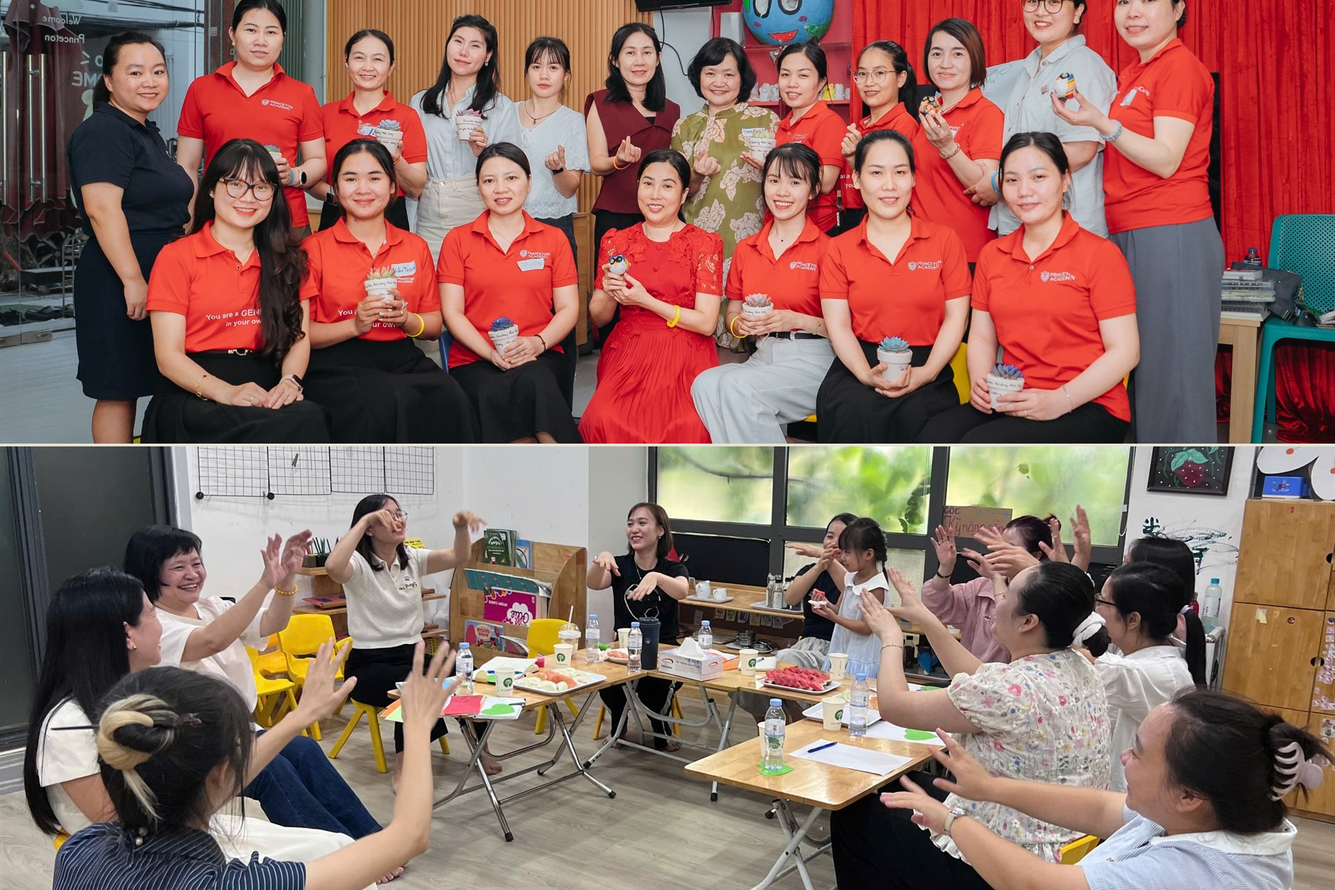
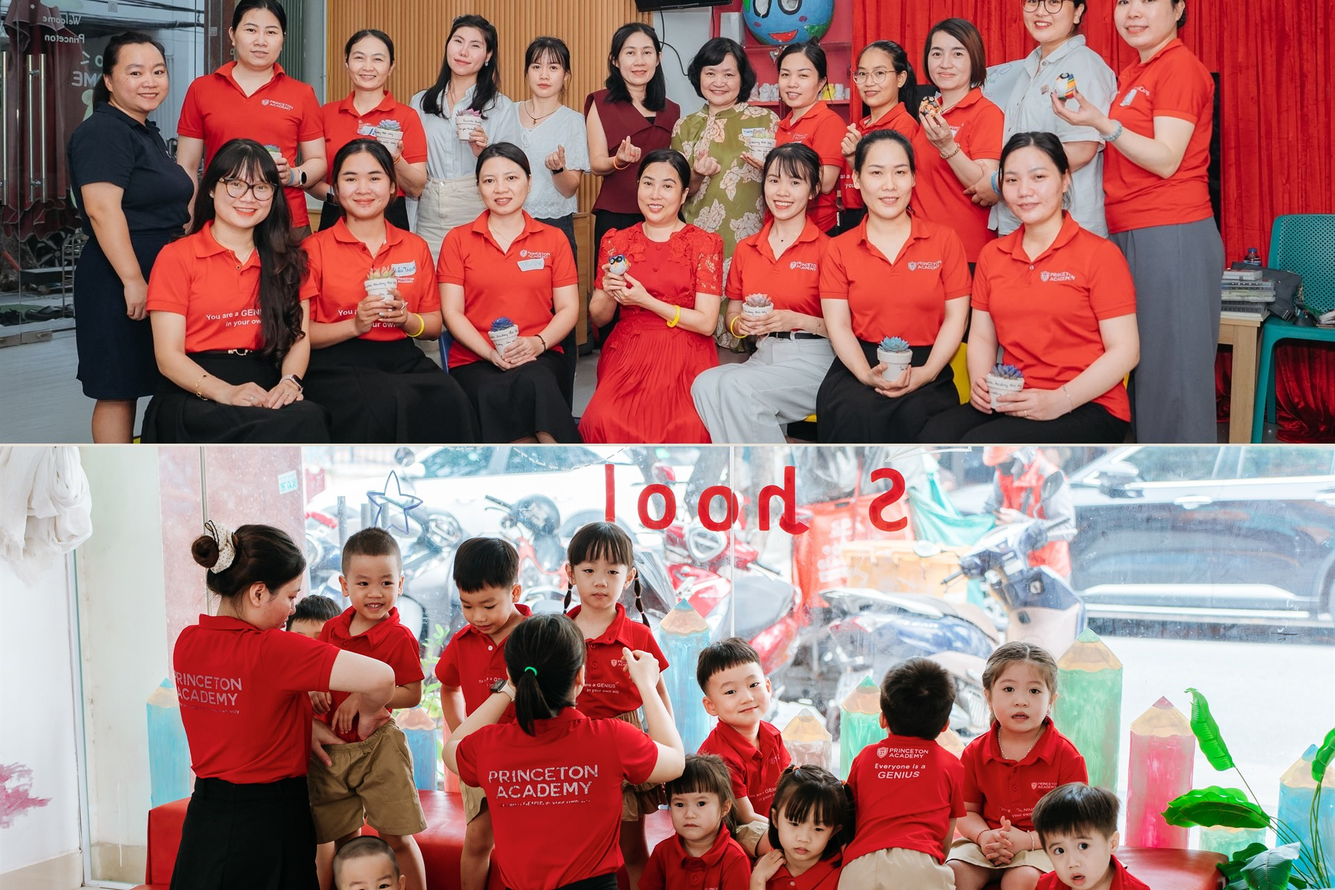
fix giao diện

diff --git a/index.html b/index.html
@@ -715,19 +715,19 @@
                 </div>
                 <div class="model-row">
                   <dt>Mặt bằng</dt>
-                  <dd>Trên 1.000 m² (sân vườn rộng)</dd>
+                  <dd>Từ 300m²/sàn, tổng diện tích 700 - 1.000m²</dd>
                 </div>
                 <div class="model-row">
                   <dt>Sức chứa</dt>
-                  <dd>150 - 300 học sinh</dd>
+                  <dd>70 - 200 học sinh</dd>
                 </div>
               </dl>
 
               <div class="mt-4 p-3 bg-[#FCFAF7] border-l-2 border-[#C89D35] text-[11px] text-gray-700 leading-relaxed">
-                <strong class="text-[#8C1823]">Điểm nổi bật:</strong> Tiêu chuẩn Flagship quốc tế.
+                <strong class="text-[#8C1823]">Điểm nổi bật:</strong> Tiêu chuẩn Flagship quốc tế. Tạo sự khác biệt lớn về chương trình, không gian và thương hiệu.
               </div>
 
-              <a href="#register" data-model="Princeton Premier" class="model-cta mt-5 block text-center px-4 py-3 border border-[#8C1823] text-[#8C1823] hover:bg-[#8C1823] hover:text-white text-[10px] font-extrabold uppercase tracking-wider transition-colors">
+              <a href="#register" data-model="Princeton Premier" class="model-cta mt-auto pt-5 block text-center px-4 py-3 border border-[#8C1823] text-[#8C1823] hover:bg-[#8C1823] hover:text-white text-[10px] font-extrabold uppercase tracking-wider transition-colors">
                 Tư vấn mô hình Premier
               </a>
             </div>
@@ -735,14 +735,14 @@
 
           <!-- Academy -->
           <article class="model-card model-card--featured lg:mt-0">
-            <span class="model-ribbon">Tối ưu vận hành</span>
+            <span class="model-ribbon">Tối ưu vốn</span>
             <div class="bg-[#8C1823] text-white p-6 border-b-2 border-[#C89D35]">
               <div class="flex items-center justify-between gap-3">
                 <span class="text-[9px] font-bold uppercase tracking-[0.16em] text-amber-200">Mô hình 02</span>
                 <span class="text-[9px] font-bold uppercase tracking-[0.14em] text-amber-200/80">Tiêu chuẩn</span>
               </div>
               <h3 class="mt-2 text-xl font-extrabold uppercase tracking-wide">Princeton Academy</h3>
-              <p class="mt-1 text-[11px] text-gray-200">Mô hình tiêu chuẩn tối ưu vận hành</p>
+              <p class="mt-1 text-[11px] text-gray-200">Mô hình tiêu chuẩn tối ưu vốn</p>
             </div>
             <div class="p-6 flex flex-col flex-1">
               <div class="pb-4">
@@ -757,7 +757,7 @@
               <dl class="border-t border-gray-100 pt-1">
                 <div class="model-row">
                   <dt>Đối tượng</dt>
-                  <dd>Trung tâm tỉnh / thành phố</dd>
+                  <dd>Trung tâm Tỉnh / Thành phố</dd>
                 </div>
                 <div class="model-row">
                   <dt>Mặt bằng</dt>
@@ -765,15 +765,15 @@
                 </div>
                 <div class="model-row">
                   <dt>Sức chứa</dt>
-                  <dd>80 - 150 học sinh</dd>
+                  <dd>70 - 150 học sinh</dd>
                 </div>
               </dl>
 
               <div class="mt-4 p-3 bg-[#FFF9EC] border-l-2 border-[#C89D35] text-[11px] text-gray-700 leading-relaxed">
-                <strong class="text-[#8C1823]">Điểm nổi bật:</strong> Mô hình tiêu chuẩn tối ưu vận hành.
+                <strong class="text-[#8C1823]">Điểm nổi bật:</strong> Mô hình tiêu chuẩn tối ưu vốn. Đảm bảo được sự khác biệt trong phân khúc học phí.
               </div>
 
-              <a href="#register" data-model="Princeton Academy" class="model-cta mt-5 block text-center px-4 py-3 bg-[#C89D35] hover:bg-[#B28827] text-white text-[10px] font-extrabold uppercase tracking-wider transition-colors">
+              <a href="#register" data-model="Princeton Academy" class="model-cta mt-auto pt-5 block text-center px-4 py-3 bg-[#C89D35] hover:bg-[#B28827] text-white text-[10px] font-extrabold uppercase tracking-wider transition-colors">
                 Tư vấn mô hình Academy
               </a>
             </div>
@@ -787,7 +787,7 @@
                 <span class="text-[9px] font-bold uppercase tracking-[0.14em] text-[#8C1823]/70">Linh hoạt</span>
               </div>
               <h3 class="mt-2 text-xl font-extrabold uppercase tracking-wide">Princeton Little House</h3>
-              <p class="mt-1 text-[11px] text-[#5E0D16]/80">Linh hoạt - Thu hồi vốn nhanh</p>
+              <p class="mt-1 text-[11px] text-[#5E0D16]/80">Linh hoạt, vốn mỏng, thu hồi nhanh</p>
             </div>
             <div class="p-6 flex flex-col flex-1">
               <div class="pb-4">
@@ -806,19 +806,19 @@
                 </div>
                 <div class="model-row">
                   <dt>Mặt bằng</dt>
-                  <dd>150 m² - 300 m²</dd>
+                  <dd>Từ 300 m²</dd>
                 </div>
                 <div class="model-row">
                   <dt>Sức chứa</dt>
-                  <dd>30 - 60 học sinh</dd>
+                  <dd>70 - 150 học sinh</dd>
                 </div>
               </dl>
 
               <div class="mt-4 p-3 bg-[#FCFAF7] border-l-2 border-[#8C1823] text-[11px] text-gray-700 leading-relaxed">
-                <strong class="text-[#8C1823]">Điểm nổi bật:</strong> Linh hoạt, tối ưu vận hành, thu hồi vốn nhanh.
+                <strong class="text-[#8C1823]">Điểm nổi bật:</strong> Linh hoạt, vốn mỏng, thu hồi nhanh. Mô hình tiếp cận được phân khúc trung bình khá, dễ dàng tuyển sinh.
               </div>
 
-              <a href="#register" data-model="Princeton Little House" class="model-cta mt-5 block text-center px-4 py-3 border border-[#8C1823] text-[#8C1823] hover:bg-[#8C1823] hover:text-white text-[10px] font-extrabold uppercase tracking-wider transition-colors">
+              <a href="#register" data-model="Princeton Little House" class="model-cta mt-auto pt-5 block text-center px-4 py-3 border border-[#8C1823] text-[#8C1823] hover:bg-[#8C1823] hover:text-white text-[10px] font-extrabold uppercase tracking-wider transition-colors">
                 Tư vấn mô hình Little House
               </a>
             </div>
